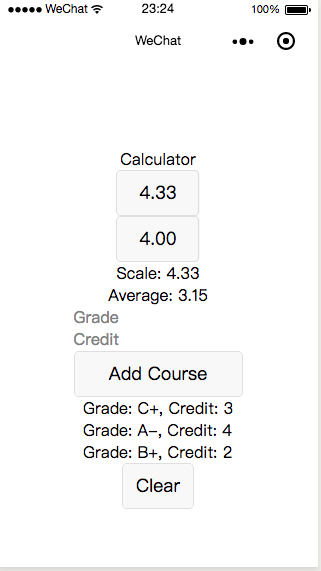
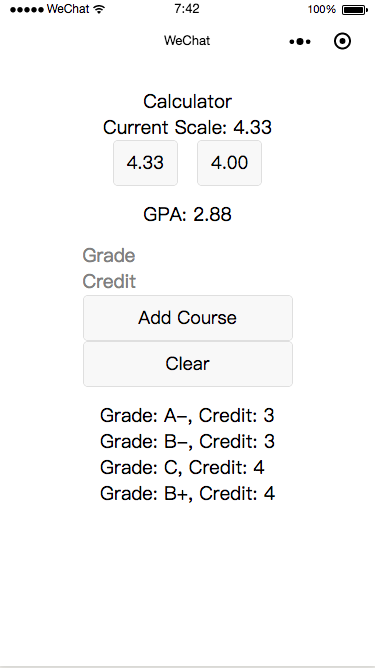
Layout

diff --git a/src/pages/index/index.vue b/src/pages/index/index.vue
@@ -10,8 +10,6 @@
         <course-adder></course-adder>
         <!-- Course List -->
         <courses-shower></courses-shower>
-        <!-- Clear -->
-        <courses-clearer></courses-clearer>
     </div>
 </template>
 
@@ -20,15 +18,13 @@ import ScaleChanger from '../../components/ScaleChanger';
 import StatsShower from '../../components/StatsShower';
 import CourseAdder from '../../components/CourseAdder';
 import CoursesShower from '../../components/CoursesShower';
-import CoursesClearer from '../../components/CoursesClearer';
 
 export default {
     components: {
         ScaleChanger,
         StatsShower,
         CourseAdder,
-        CoursesShower,
-        CoursesClearer
+        CoursesShower
     }
 };
 </script>

diff --git a/src/components/CourseAdder.vue b/src/components/CourseAdder.vue
@@ -1,9 +1,10 @@
 <template>
-    <div>
+    <div style="margin-bottom: 15px">
         <form>
             <input type="text" v-model="grade" placeholder="Grade">
             <input type="number" v-model="credit" placeholder="Credit">
             <button @click="addCourse()">Add Course</button>
+            <button @click="clear()">Clear</button>
         </form>
     </div>
 </template>
@@ -23,6 +24,9 @@ export default {
             store.commit('addCourse', {grade: this.grade, credit: this.credit});
             this.grade = null;
             this.credit = null;
+        },
+        clear() {
+            store.commit('clearCourses');
         }
     }
 }

diff --git a/src/components/ScaleChanger.vue b/src/components/ScaleChanger.vue
@@ -1,8 +1,10 @@
 <template>
-    <div>
-        <button @click="changeScale(4.33)">4.33</button>
-        <button @click="changeScale(4.00)">4.00</button>
-        Scale: {{ scale }}
+    <div style="margin-bottom: 15px">
+        Current Scale: {{ scale }}
+        <div class="flex-container">
+            <button @click="changeScale(4.33)">4.33</button>
+            <button @click="changeScale(4.00)">4.00</button>
+        </div>
     </div>
 </template>
 
@@ -23,6 +25,9 @@ export default {
 }
 </script>
 
-<style>
-
+<style scoped>
+.flex-container {
+    display: flex;
+    flex-wrap: nowrap;
+}
 </style>

diff --git a/src/components/CoursesShower.vue b/src/components/CoursesShower.vue
@@ -1,5 +1,5 @@
 <template>
-    <div>
+    <div style="margin-bottom: 15px">
         <ul>
             <li v-for="course in courses" :key="Math.random()">
                 Grade: {{ course.grade }}, Credit: {{ course.credit }}

diff --git a/src/App.vue b/src/App.vue
@@ -18,7 +18,7 @@ export default {
   flex-direction: column;
   align-items: center;
   justify-content: space-between;
-  padding: 200rpx 0;
+  padding: 50rpx 0;
   box-sizing: border-box;
 }
 /* this rule will be remove */

diff --git a/src/components/StatsShower.vue b/src/components/StatsShower.vue
@@ -1,5 +1,5 @@
 <template>
-    <div>
+    <div style="margin-bottom: 15px">
         GPA: {{ average }}
     </div>
 </template>
